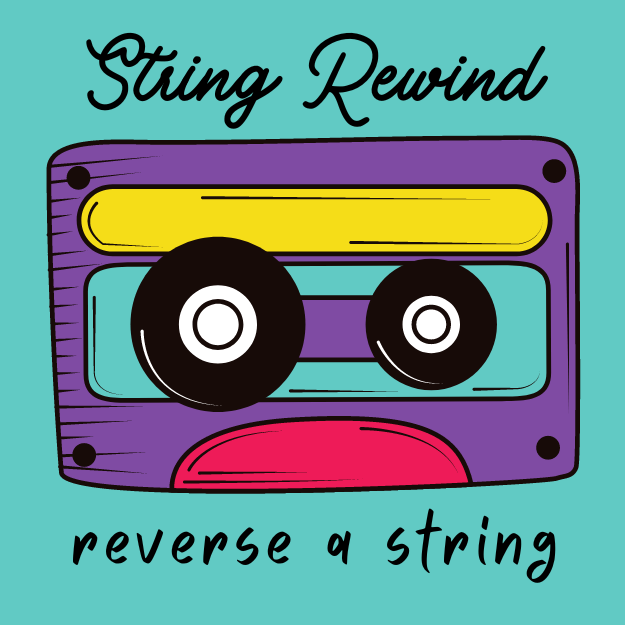
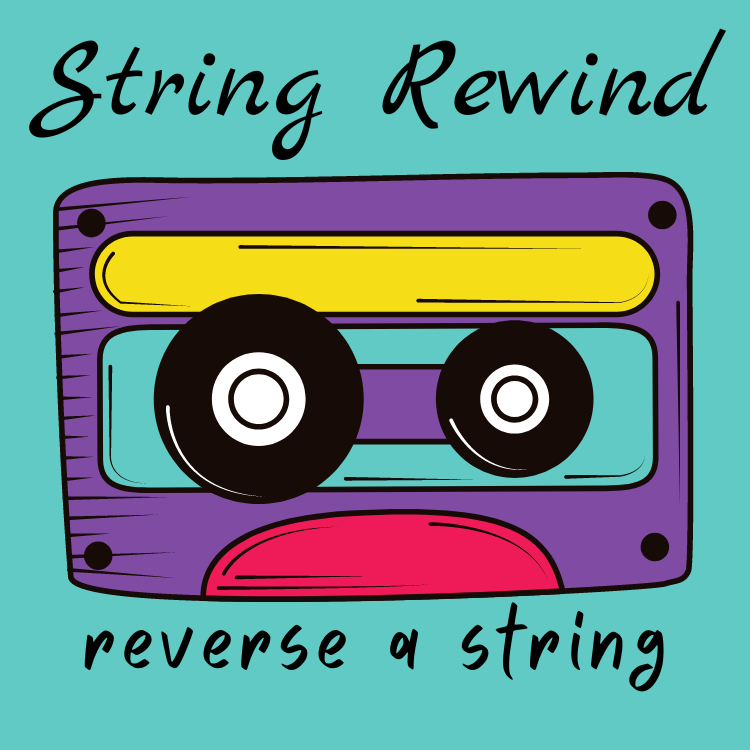
style changes

Changed region(s): [[0.0304, 0.0304, 0.9728, 0.9424], [0.2736, 0.456, 0.4256, 0.608]]

diff --git a/index.html b/index.html
@@ -17,7 +17,12 @@
     <link rel="stylesheet" href="https://cdn.jsdelivr.net/gh/devicons/devicon@v2.15.1/devicon.min.css">
 
     <!--Tab Favicon  -->
-    <link rel="shortcut icon" href="img/Willicons/logoBlu.png" type="image/x-icon" />
+    <link rel="shortcut icon" href="img/Willicons/logo panky.png" type="image/x-icon" />
+
+    <!-- Google Fonts -->
+    <link rel="preconnect" href="https://fonts.googleapis.com">
+    <link rel="preconnect" href="https://fonts.gstatic.com" crossorigin>
+    <link href="https://fonts.googleapis.com/css2?family=Marck+Script&display=swap" rel="stylesheet">
 
     <!-- Custom CSS -->
     <link rel="stylesheet" href="/css/site.css" />
@@ -27,8 +32,8 @@
     <header>
         <nav class="navbar navbar-expand-lg navbar-dark">
             <div class="container-fluid">
-                <a class="navbar-brand" href="/index.html">
-                    <img src="/img/Willicons/logoBlu.png" height="42" alt="developer logo" />
+                <a class="navbar-brand" href="/index.html" id="stringRewind">
+                    <img src="/img/Willicons/logo panky.png" height="42" alt="developer logo" />
                     String Rewind
                 </a>
                 <button class="navbar-toggler" type="button" data-bs-toggle="collapse"
@@ -48,7 +53,8 @@
                             <a class="nav-link" href="/code.html">The Code</a>
                         </li>
                         <li class="nav-item">
-                            <a class="nav-link" target="_blank" href="https://github.com/Fjeldhammer/a.Rewind">The Repo</a>
+                            <a class="nav-link" target="_blank" href="https://github.com/Fjeldhammer/a.Rewind">The
+                                Repo</a>
                         </li>
                         <li class="nav-item">
                             <a class="nav-link" target="_blank" href="https://fjeldhammer.netlify.app/">About</a>
@@ -114,12 +120,12 @@
     <footer class="footer container-fluid py-3">
         <div class="container">
             <div class="row row-cols-1 row-cols-lg-3 align-items-center gy-2">
-                <div class="col text-center text-lg-start">
+                <div class="col text-center text-lg-start textRewind">
                     &copy; 2023 William Field
                 </div>
                 <div class="col text-center">
 
-                    <img src="/img/Willicons/CirBluTextLong dark.png" height="35" />
+                    <img src="/img/Willicons/CirpankyTextLong light.png" height="35" />
                 </div>
                 <div class="col text-center text-lg-end">
                     <a href="#"><i class="socialicons bi bi-linkedin"></i></a>

diff --git a/css/site.css b/css/site.css
@@ -1,3 +1,5 @@
+/* font-family: 'Marck Script', cursive; */
+
 :root {
     --wf-theme-core: var(--wf-blue-core);
     --wf-theme-100: var(--wf-blue-100);
@@ -27,6 +29,10 @@
 
     --wf-light-color: #deeefb;
     --wf-dark-color: #212121;
+    /* #61cac4 tealy*/
+    /* #ee1b58 panky*/
+    /* #7F4BA3 purcle*/
+    /* #F5DD18 goldy*/
 }
 
 /* #region Sticky Footer */
@@ -50,10 +56,27 @@ footer {
 /* #endregion Sticky Footer */
 
 .btn-primary {
-    --bs-btn-bg: var(--wf-theme-600);
-    --bs-btn-border-color: var(--wf-theme-600);
-    --bs-btn-hover-bg: var(--wf-theme-700);
-    --bs-btn-hover-border-color: var(--wf-theme-700);
+    color: #ee1b58;
+    background-color: #f5dd18;
+    border-color: #7F4BA3;
+    --bs-btn-hover-bg: #ee1b58;
+    --bs-btn-hover-border-color: #f5dd18;
+    --bs-btn-hover-color: white;
+}
+
+.borderRewind {
+    color: #ee1b58
+}
+
+#stringRewind {
+    color: #212121;
+    font-family: 'Marck Script', cursive;
+    font-weight: 900;
+    font-size: xx-large ;
+}
+
+.textRewind {
+    color: #7f4ba3
 }
 
 body {
@@ -63,22 +86,26 @@ body {
 
 .navbar,
 .footer {
-    background-color: var(--wf-theme-900);
+    background-color:#61cac4;
 }
 
 .footer {
     color: var(--wf-theme-200);
 }
 
+.navbar {
+    color: #212121
+}
+
 .socialicons {
     font-size: 2rem;
     padding-left: .5rem;
-    color: var(--wf-theme-300);
+    color: #7f4ba3;
     transition: color 0.2s;
 }
 
 .socialicons:hover {
-    color: var(--wf-theme-core);
+    color: #f5dd18;
 }
 
 .app-logo {
@@ -86,7 +113,7 @@ body {
 }
 
 .checklist i {
-    color: var(--wf-theme-core);
+    color: #7f4ba3;
     padding-right: .5rem;
 }
 

diff --git a/app.html b/app.html
@@ -17,7 +17,7 @@
     <link rel="stylesheet" href="https://cdn.jsdelivr.net/gh/devicons/devicon@v2.15.1/devicon.min.css">
 
     <!--Tab Favicon  -->
-    <link rel="shortcut icon" href="img/Willicons/logoBlu.png" type="image/x-icon" />
+    <link rel="shortcut icon" href="img/Willicons/logo panky.png" type="image/x-icon" />
 
     <!-- Custom fontawesome css -->
     <script src="https://kit.fontawesome.com/5db21ba9c6.js" crossorigin="anonymous"></script>
@@ -31,7 +31,7 @@
         <nav class="navbar navbar-expand-lg navbar-dark">
             <div class="container-fluid">
                 <a class="navbar-brand" href="/index.html">
-                    <img src="/img/Willicons/logoBlu.png" height="42" alt="developer logo" />
+                    <img src="/img/Willicons/logo panky.png" height="42" alt="developer logo" />
                     String Rewind
                 </a>
                 <button class="navbar-toggler" type="button" data-bs-toggle="collapse"
@@ -113,7 +113,7 @@
                     &copy; 2023 William Field
                 </div>
                 <div class="col text-center">
-                    <img src="/img/Willicons/CirBluTextLong dark.png" height="35" />
+                    <img src="/img/Willicons/CirpankyTextLong light.png" height="35" />
                 </div>
                 <div class="col text-center text-lg-end">
                     <a href="#"><i class="socialicons bi bi-linkedin"></i></a>
